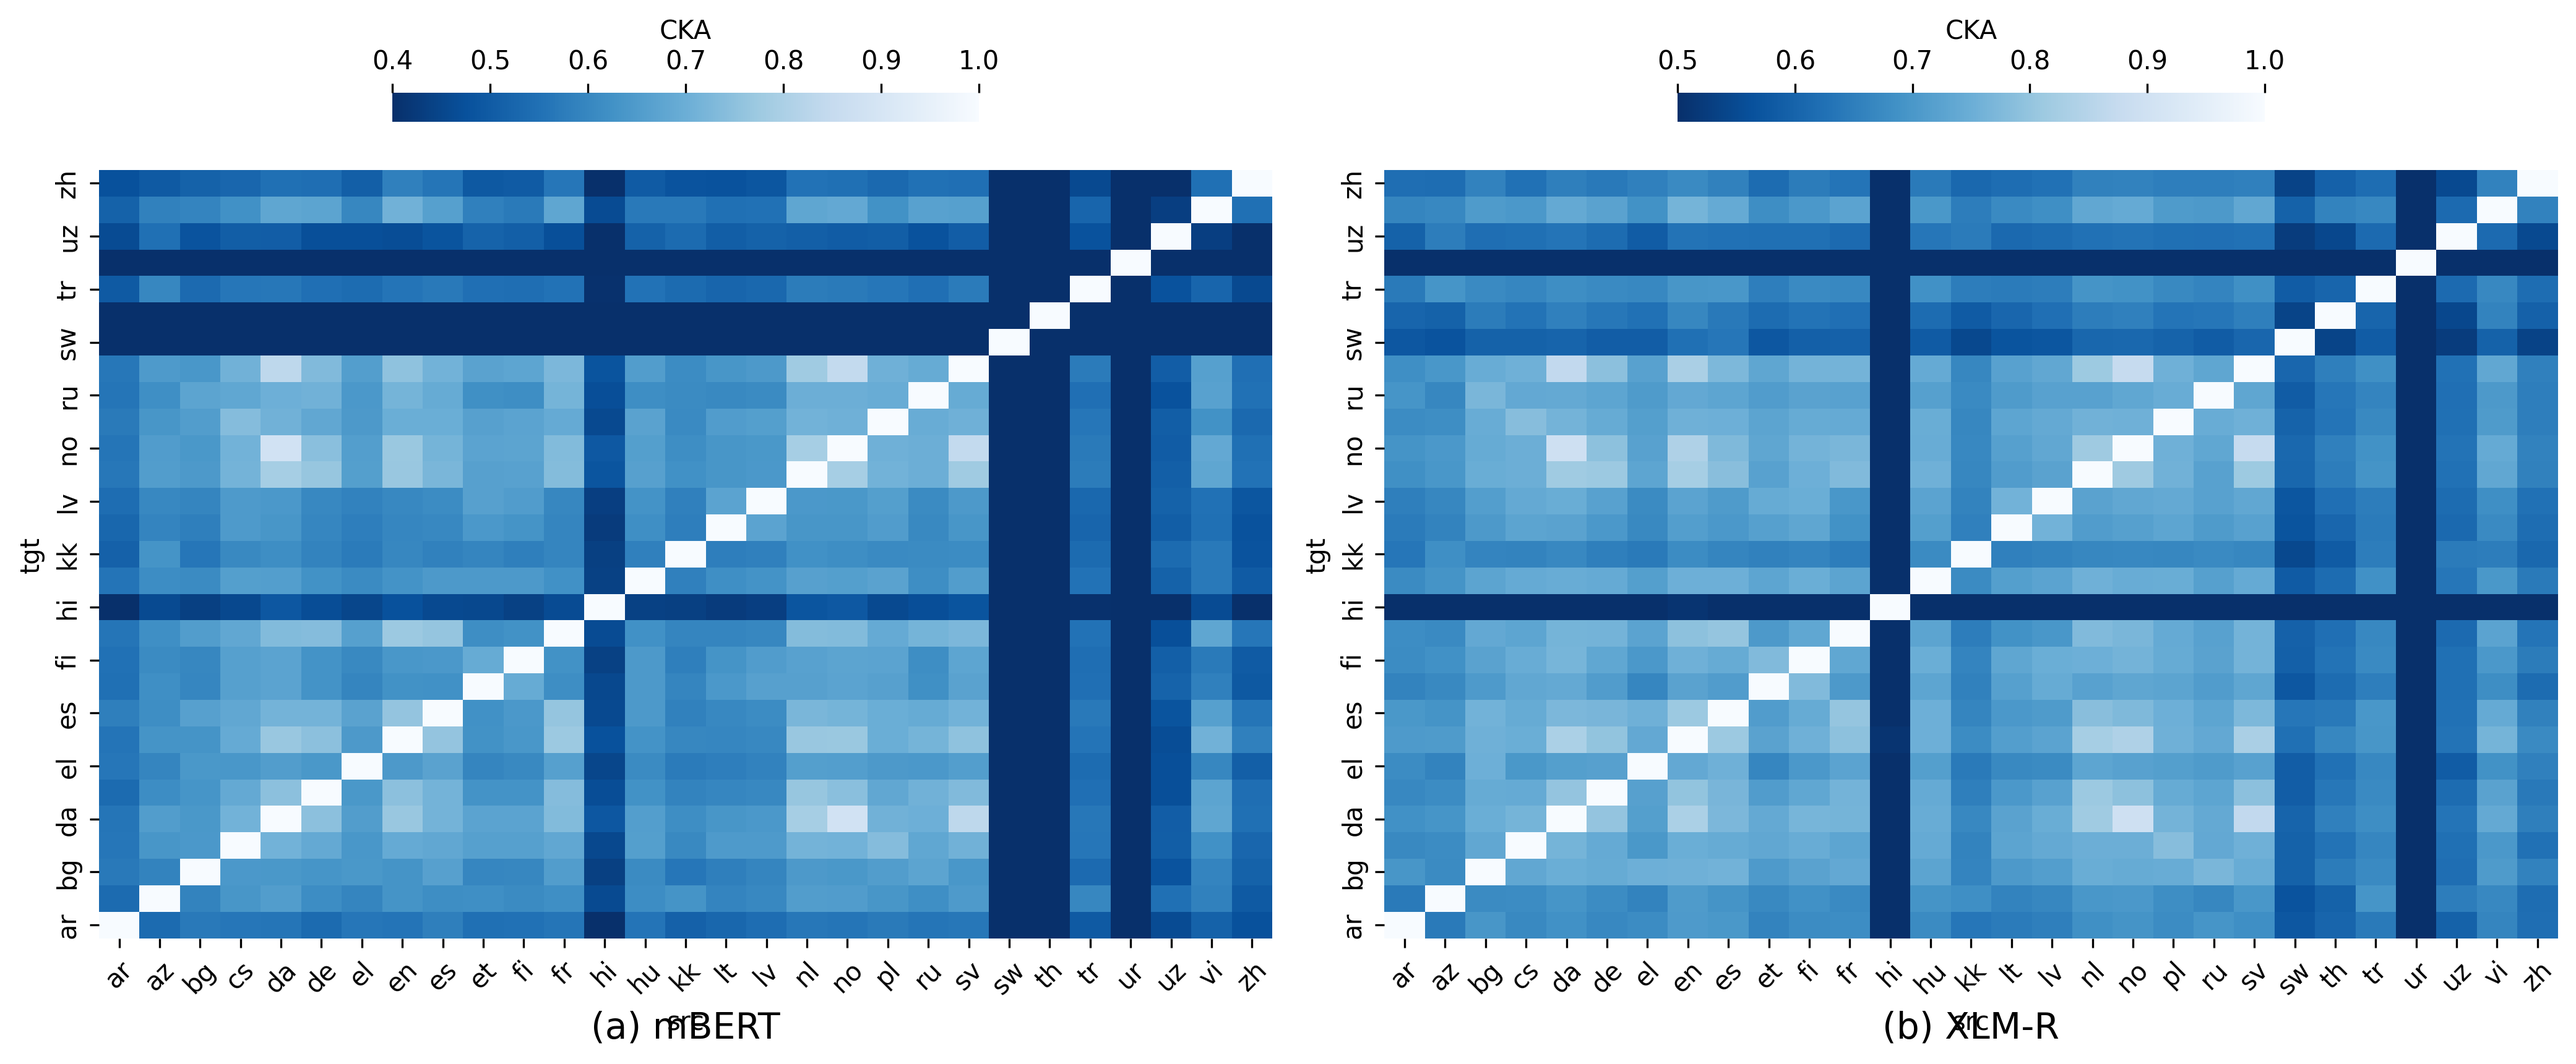
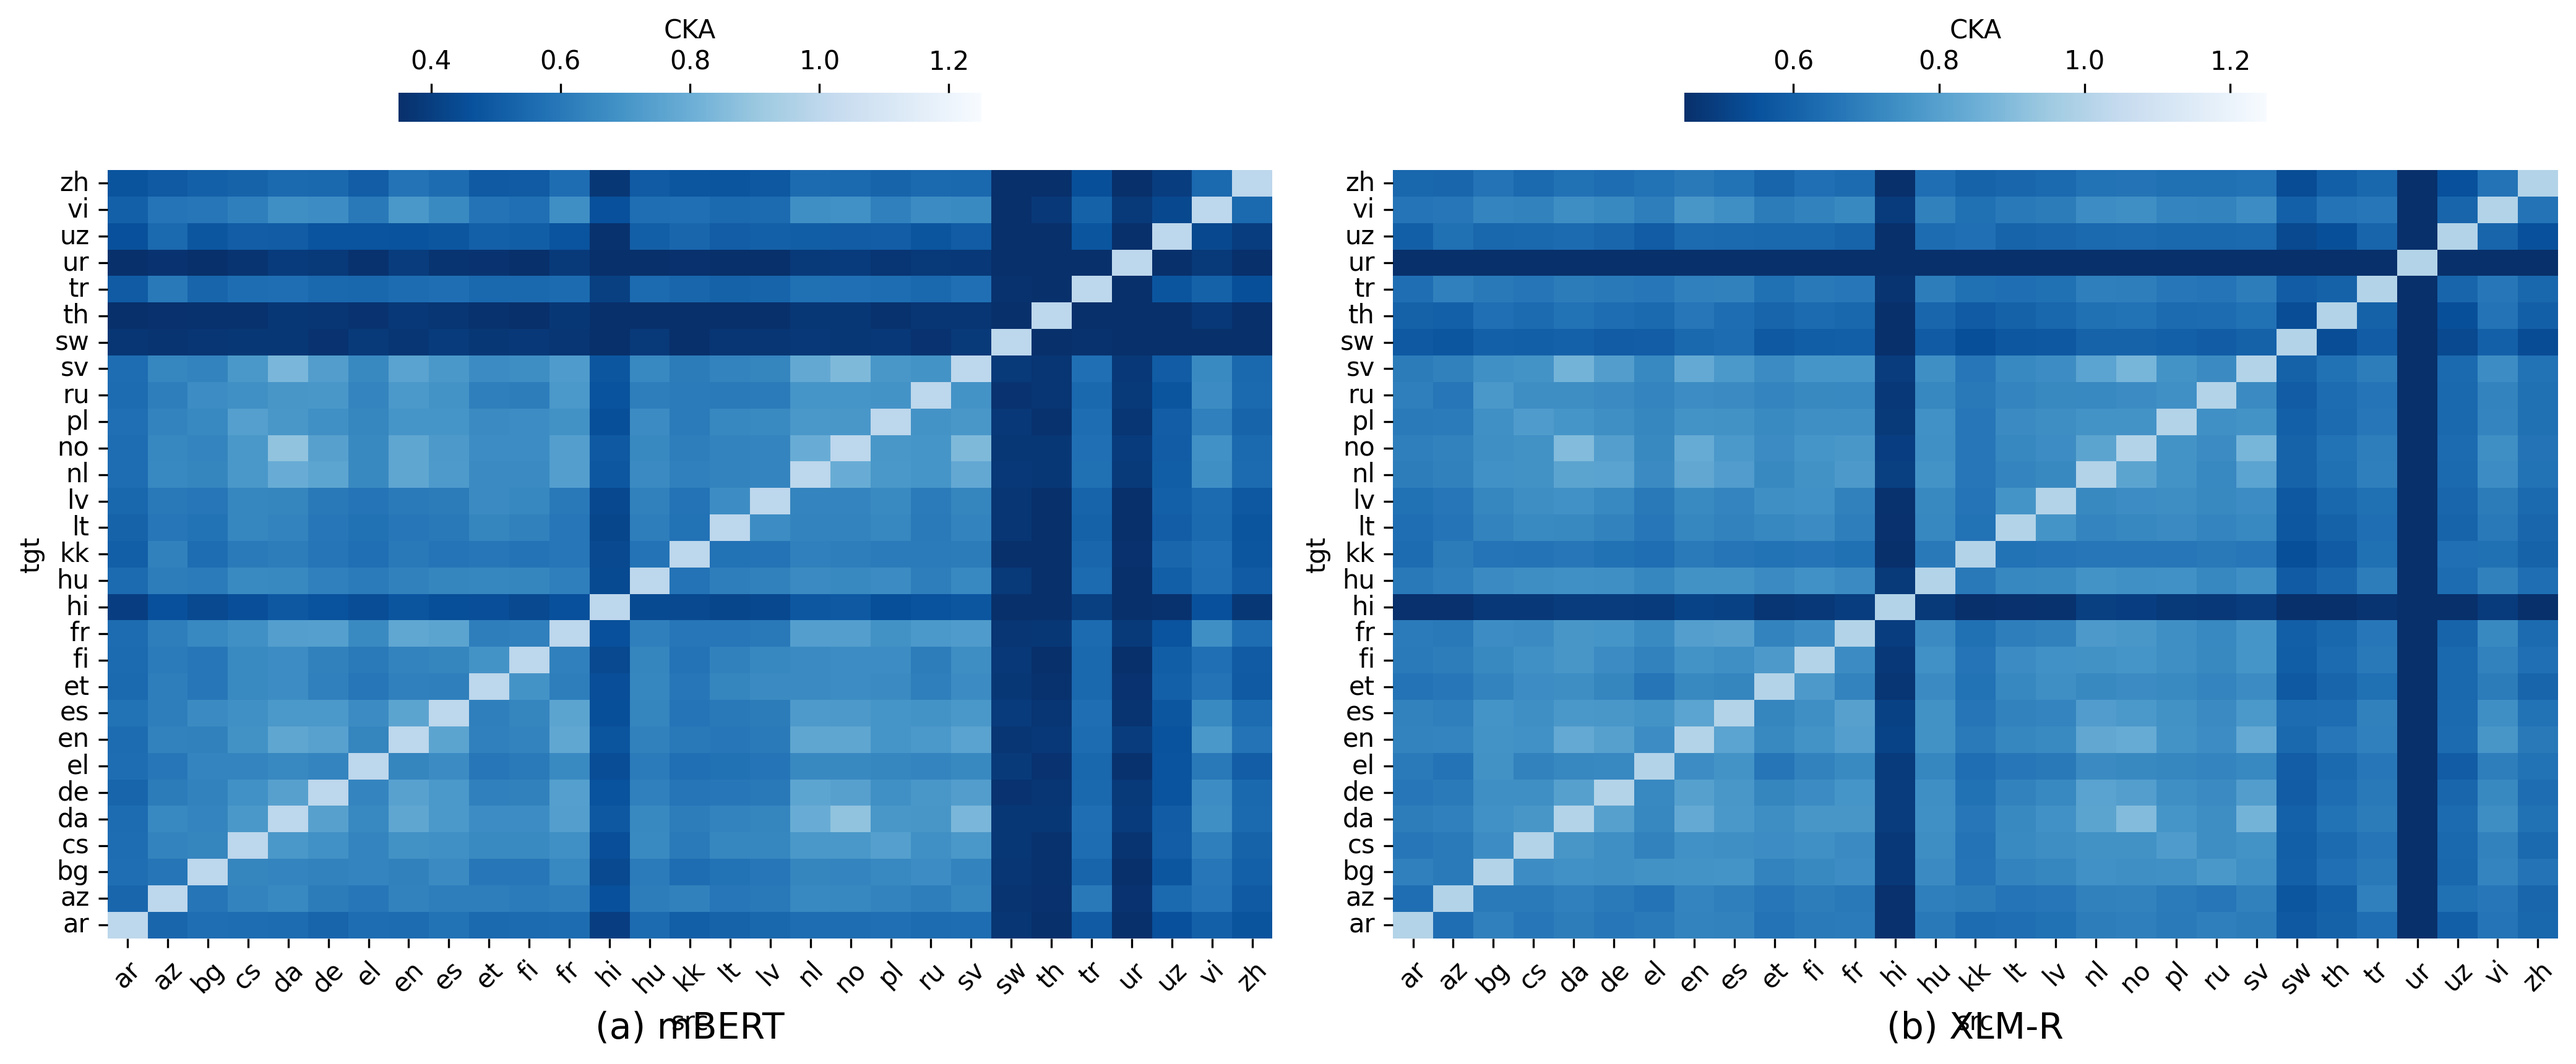
generated cka heatmaps and 90% confident that the results are matched

diff --git a/src/methodA/xsim/examples/plot_pairwise_matrix.py b/src/methodA/xsim/examples/plot_pairwise_matrix.py
@@ -62,16 +62,18 @@ def plot_matrices():
     df_xlmr_plot  = df_xlmr.iloc[::-1]
 
     # Plot (a) mBERT
-    sns.heatmap(df_mbert_plot, ax=axes[0], cmap="Blues_r", vmin=0.4, vmax=1.0, 
-                cbar_kws={'label': 'CKA', 'location': 'top', 'shrink': 0.5})
+    sns.heatmap(df_mbert_plot, ax=axes[0], cmap="Blues_r", vmin=0.35, vmax=1.25, 
+                cbar_kws={'label': 'CKA', 'location': 'top', 'shrink': 0.5},
+                xticklabels=True, yticklabels=True)
     axes[0].set_title("(a) mBERT", y=-0.15, fontsize=14)
     axes[0].set_xlabel("src")
     axes[0].set_ylabel("tgt")
     axes[0].tick_params(axis='x', rotation=45)
 
     # Plot (b) XLM-R
-    sns.heatmap(df_xlmr_plot, ax=axes[1], cmap="Blues_r", vmin=0.5, vmax=1.0, 
-                cbar_kws={'label': 'CKA', 'location': 'top', 'shrink': 0.5})
+    sns.heatmap(df_xlmr_plot, ax=axes[1], cmap="Blues_r", vmin=0.45, vmax=1.25, 
+                cbar_kws={'label': 'CKA', 'location': 'top', 'shrink': 0.5},
+                xticklabels=True, yticklabels=True)
     axes[1].set_title("(b) XLM-R", y=-0.15, fontsize=14)
     axes[1].set_xlabel("src")
     axes[1].set_ylabel("tgt")
